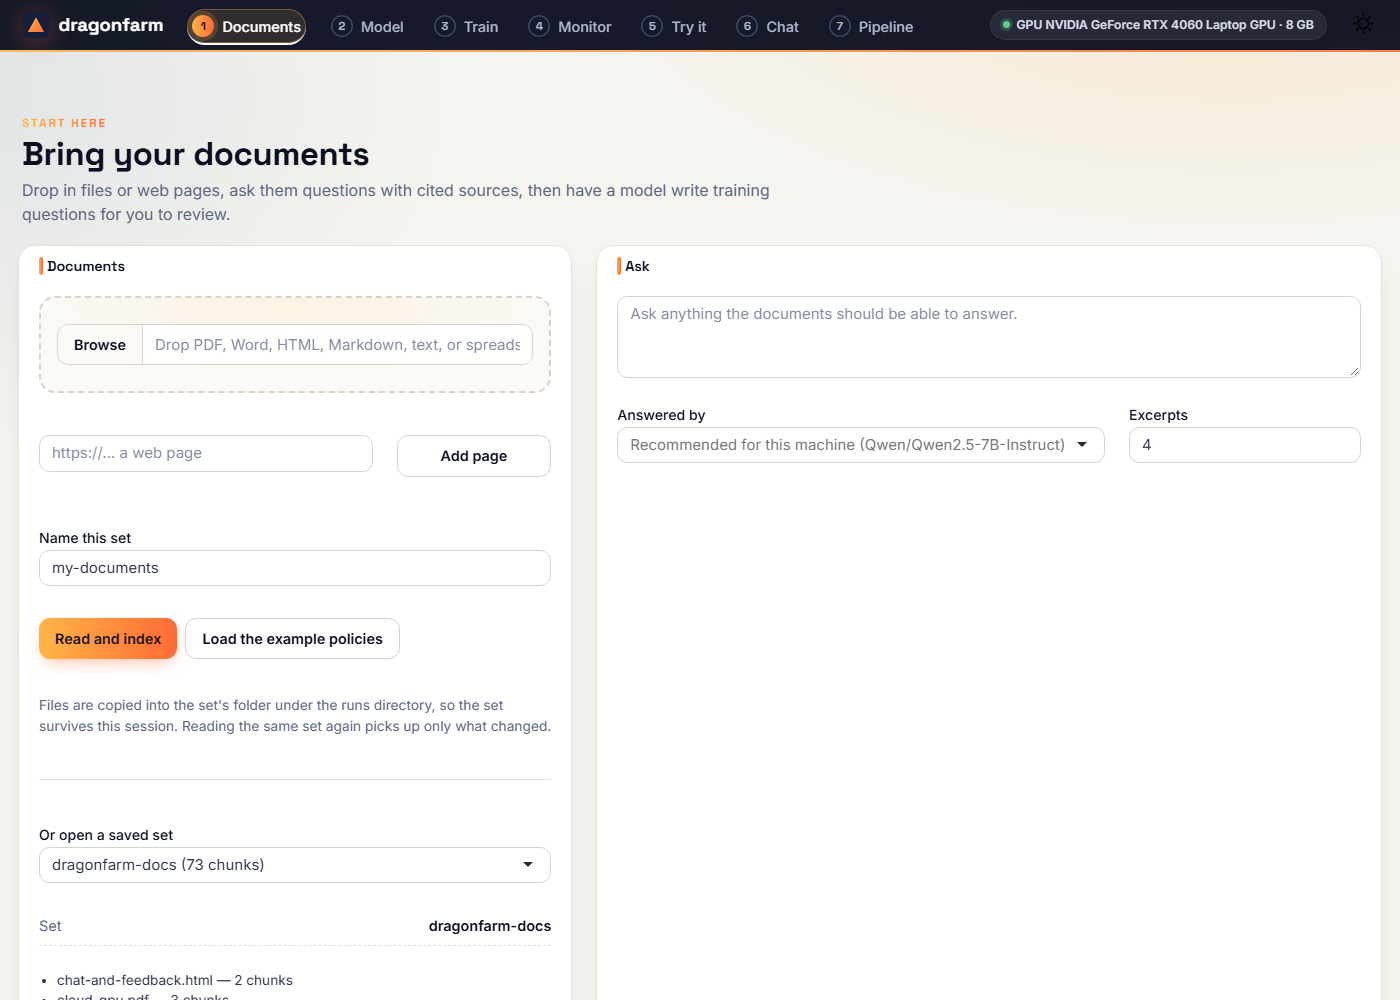
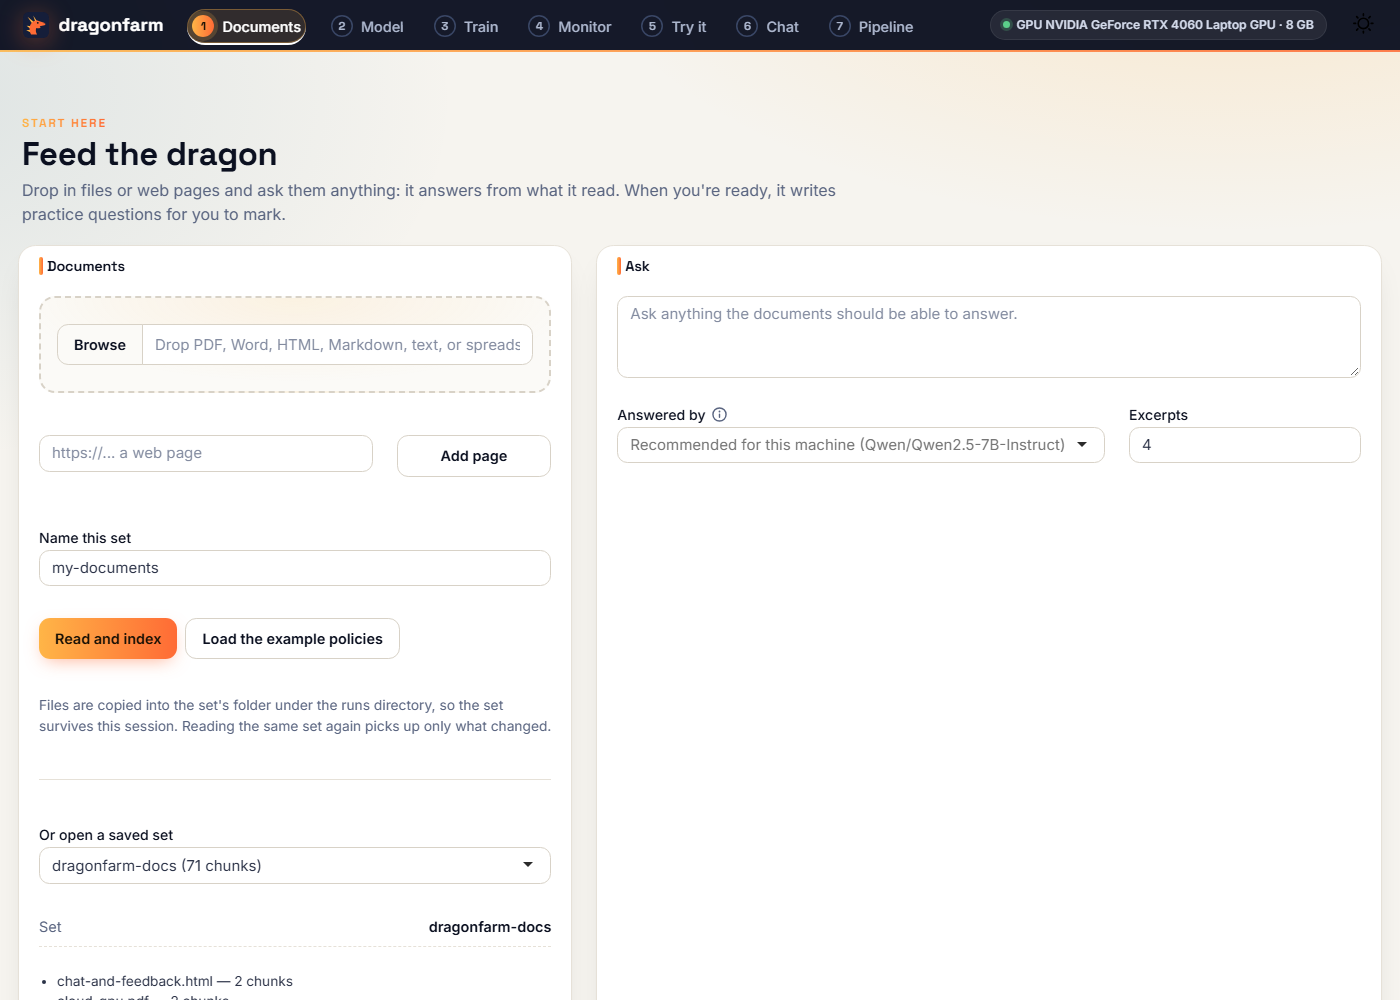
Full answers from documents, rendered; new screenshots and GIF
- dragon_ask() and chat with documents ask models of 3B and up for
  complete answers. Measured on 75 known-answer and 25 unanswerable
  questions: 7B right 72 -> 75, 3B 65 -> 70, declines unchanged at 25/25.
  Under 3B, full answers made things up (declines 1.5B 24 -> 17, 0.5B
  19 -> 10), so smaller models keep the short instructions.
  max_new_tokens defaults to 600. Article, popover, and post numbers
  updated.
- Replies render as Markdown in Ask, Try it, and Chat (md_html()): raw
  HTML outside code is escaped, unsafe links neutralised, images dropped.
  commonmark (already a shiny dependency) is now in Imports.
- App screenshots and the demo GIF retaken with the dragon icon and the
  new wording; a square dragon avatar at /avatar.png.

diff --git a/inst/app/www/dragonfarm.css b/inst/app/www/dragonfarm.css
@@ -260,6 +260,15 @@ pre code { background: none; padding: 0; color: inherit; }
 /* Keep line breaks in the message text only: pre-wrap on the whole bubble
    turned the whitespace between its tags into blank lines. */
 .bubble .content { white-space: pre-wrap; }
+/* Model replies rendered from Markdown: paragraphs, lists, and code instead of raw asterisks. */
+.bubble .content.md { white-space: normal; }
+.bubble .content.md > :first-child { margin-top: 0; }
+.bubble .content.md > :last-child { margin-bottom: 0; }
+.bubble .content.md p, .bubble .content.md ul, .bubble .content.md ol { margin: 0 0 0.6em; }
+.bubble .content.md ul, .bubble .content.md ol { padding-left: 1.3em; }
+.bubble .content.md li { margin: 0.15em 0; }
+.bubble .content.md pre { margin: 0.4em 0 0.7em; padding: 8px 10px; border-radius: 8px; background: var(--df-bg); border: 1px solid var(--df-line); font-size: 0.82rem; white-space: pre-wrap; }
+.bubble .content.md code { font-size: 0.85em; }
 .bubble .role { display: block; font: 700 0.66rem "Space Grotesk", sans-serif; text-transform: uppercase; letter-spacing: .12em; color: var(--df-muted); margin-bottom: 4px; }
 .bubble.system { background: var(--df-amber-soft); border-color: rgba(255, 181, 71, 0.45); }
 .bubble.user { background: var(--df-navy); color: #E6EBF7; border-color: #26324D; border-bottom-right-radius: 0.35rem; }

diff --git a/NEWS.md b/NEWS.md
@@ -361,6 +361,15 @@ this release along with everything added since 0.2.0:
 
 ## Everything else added since 0.2.0
 
+* Full answers from documents: `dragon_ask()` and chat with documents ask
+  models of 3B and up for complete answers with the figures, steps, or code
+  the excerpts hold, instead of one short sentence. On 75 questions with
+  known answers the 7B now gets all 75 right (was 72) and the 3B 70 (was 65),
+  still declining all 25 the documents do not cover; answers are longer (a
+  median of 60 words for the 7B) and take about twice as long. Smaller
+  models keep the short instructions, since full answers made them invent
+  more. `max_new_tokens` now defaults to 600.
+
 * A dragon of its own: a new hex logo, favicon, and app icon with an
   original dragon, the slogan "Raise your own dragon", and a lighter voice
   in the app's step headings and on the website. Model cards in the app show
